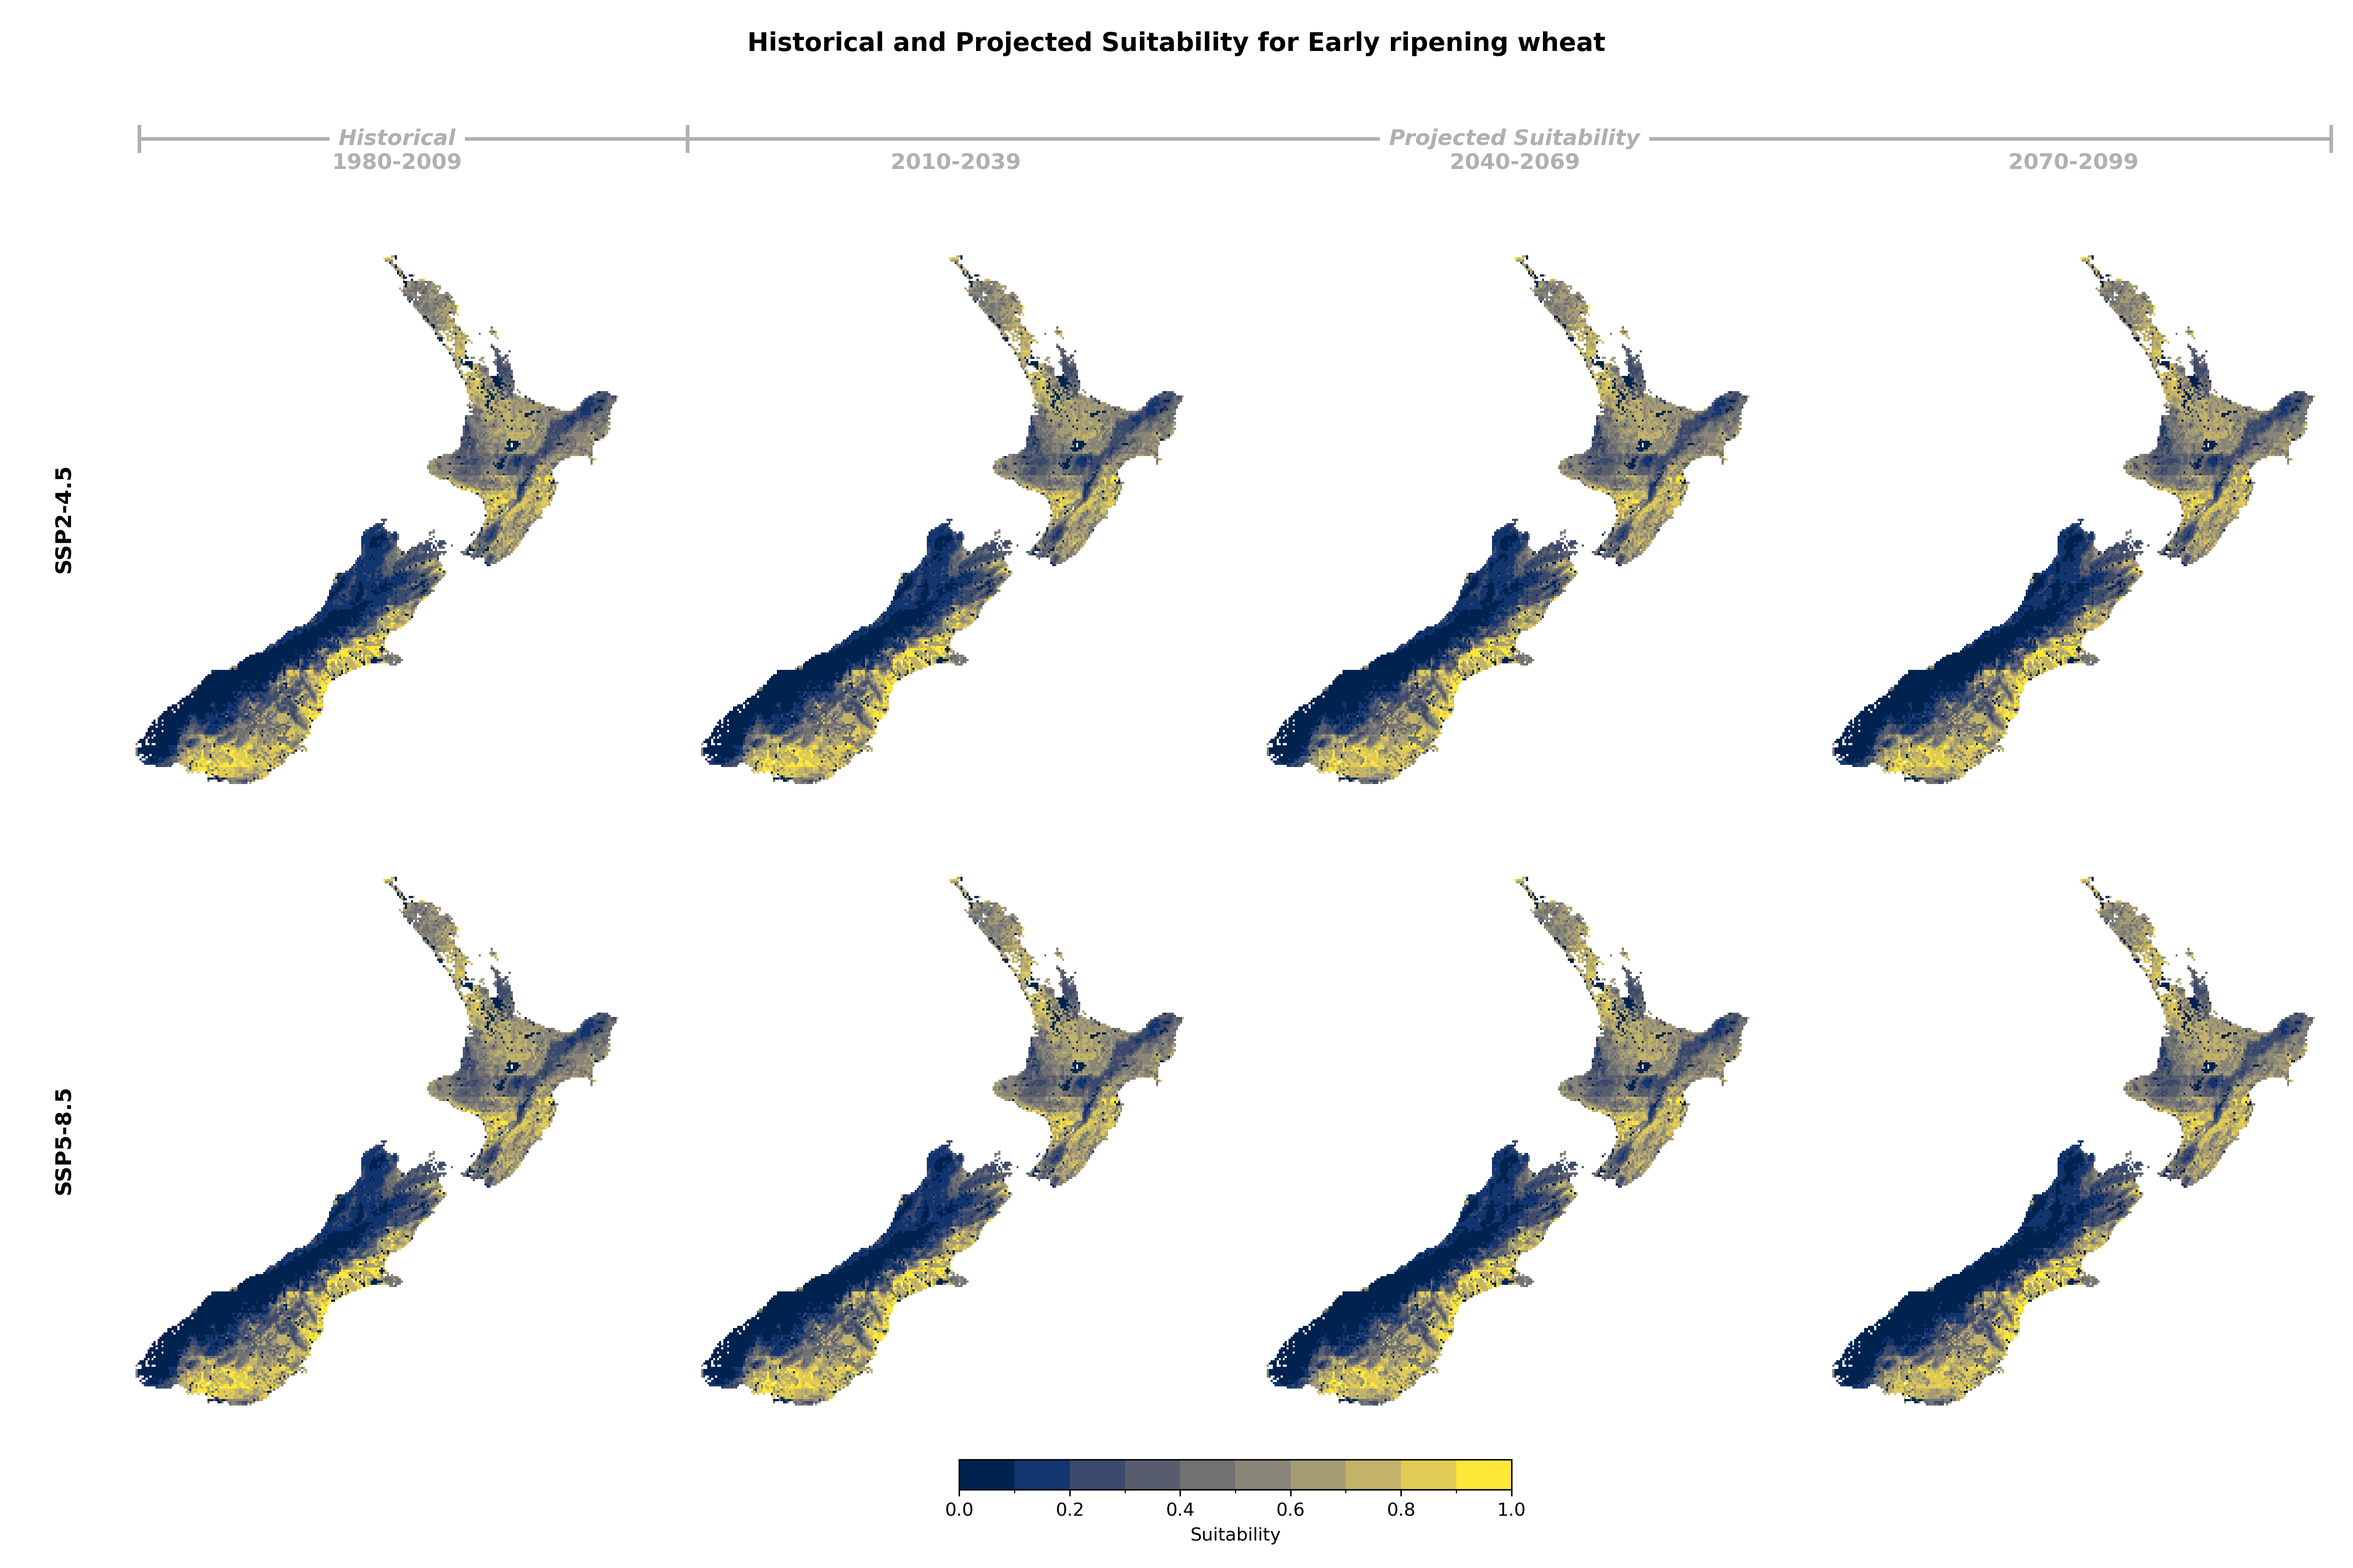
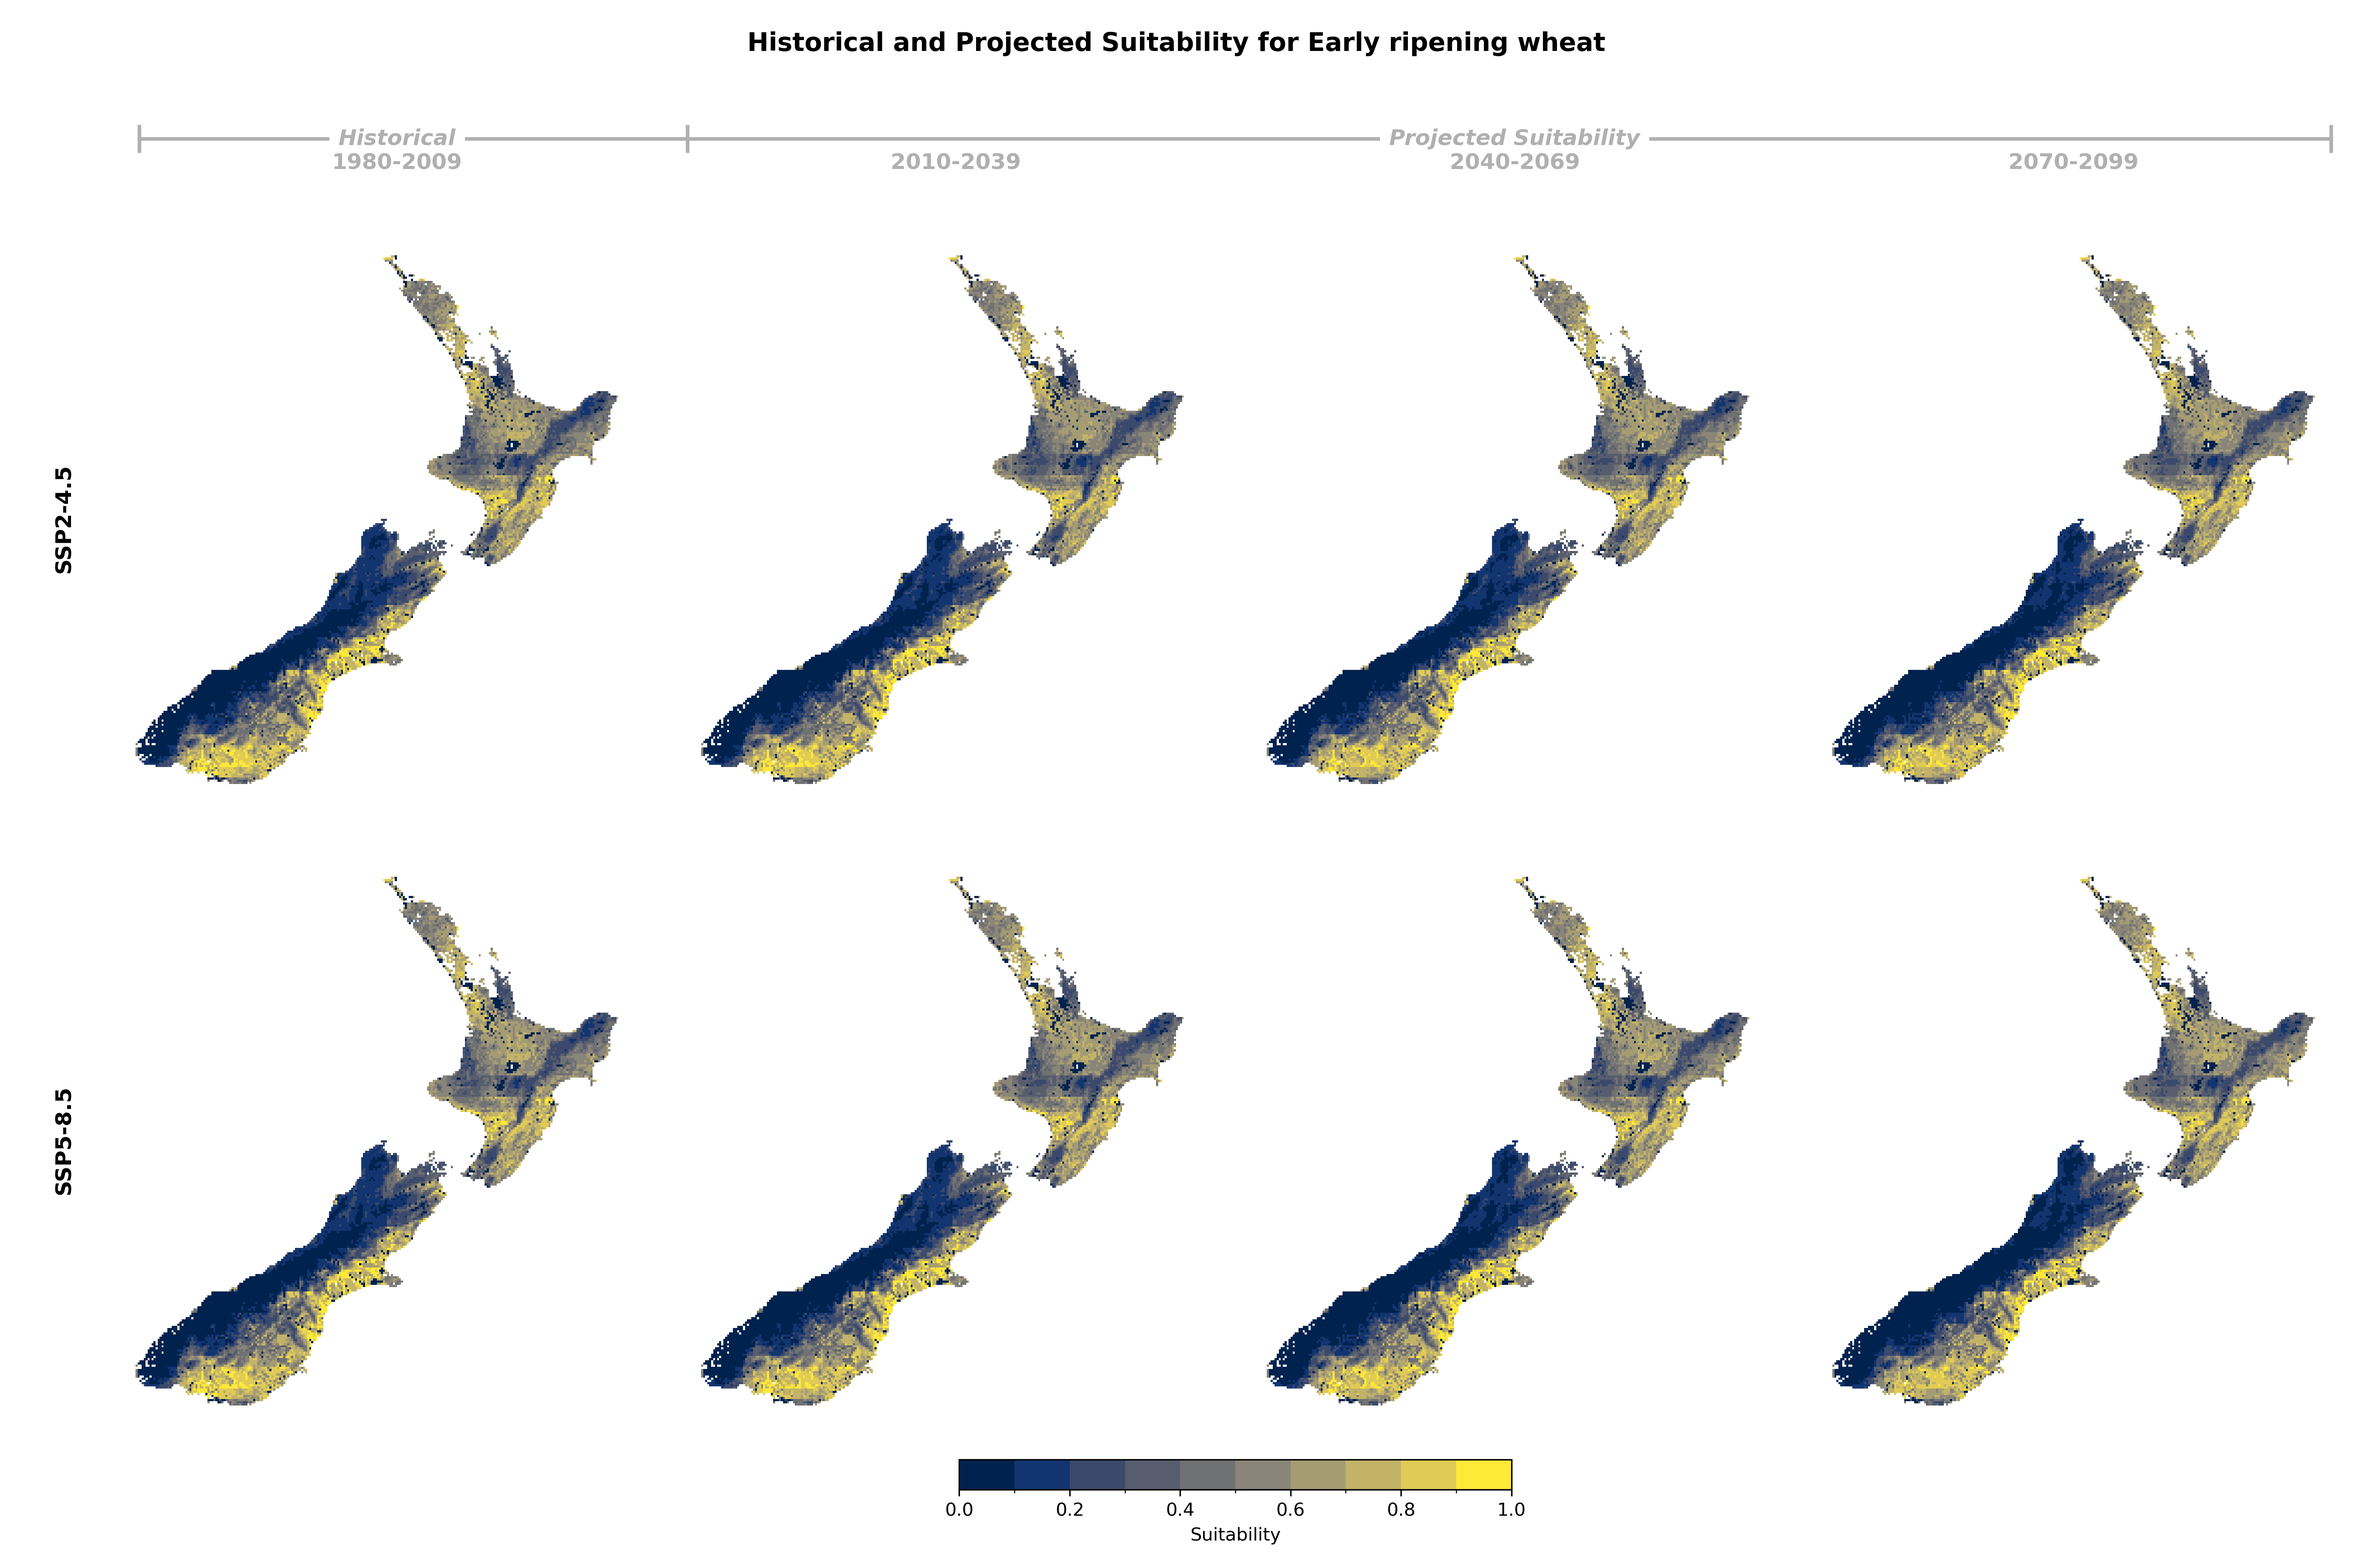
Add Early wheat 1km suitability

diff --git a/docs/landuses/wheatearly.md b/docs/landuses/wheatearly.md
@@ -8,11 +8,11 @@ title: Early ripening wheat
 
 ### Suitability Values
 
-![](../_static/summary_figs/wheatearly_suitability_SSP245-SSP585_5km_v1.0.png)
+![](../_static/summary_figs/wheatearly_suitability_SSP245-SSP585_1km_v1.0.png)
 
 ### Suitability Changes
 
-![](../_static/summary_figs/wheatearly_suitability_change_SSP245-SSP585_5km_v1.0.png)
+![](../_static/summary_figs/wheatearly_suitability_change_SSP245-SSP585_1km_v1.0.png)
 
 :::
 
